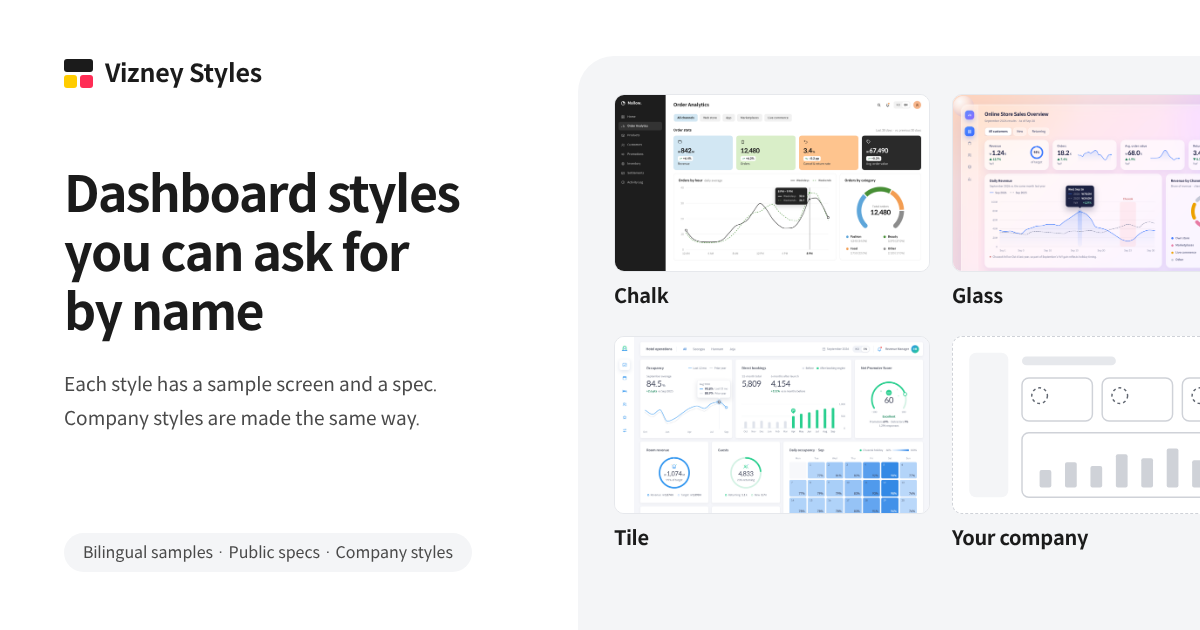
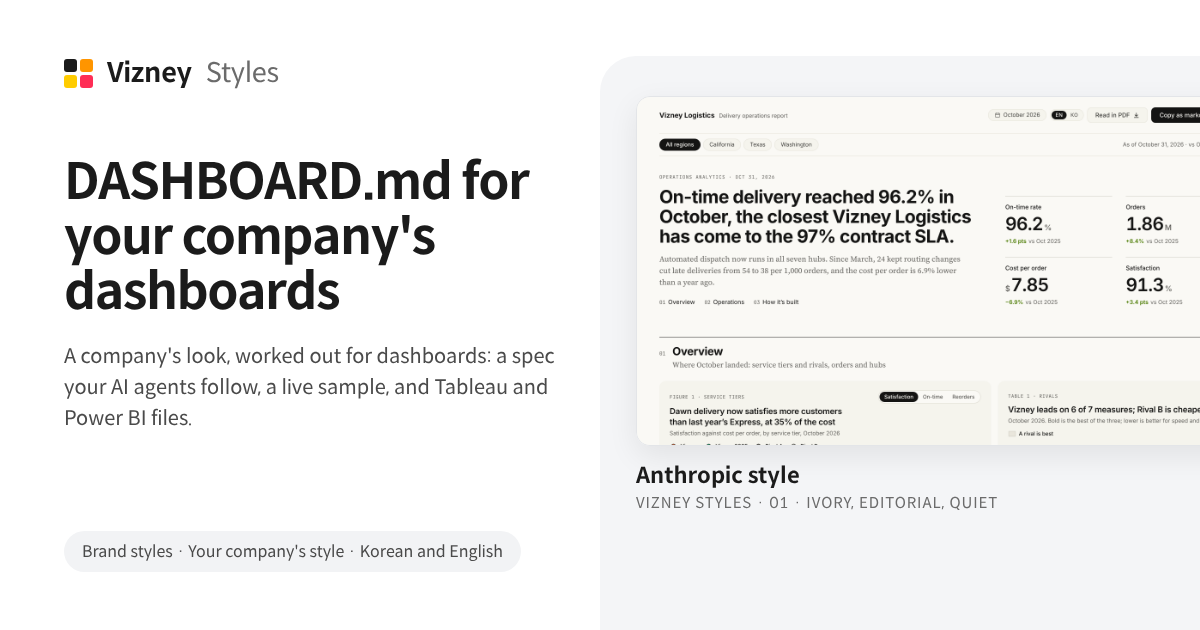
Vizney Styles as a line of Vizney: brand rules, series line, mark, npm scope
- CLAUDE.md: a "브랜드 표기" section (Vizney is the brand, Vizney Styles a line;
  series line VIZNEY STYLES · 01; the shared Vizney 2×2 mark only, no Styles
  variant or intro page; vizney.com links in header and footer; external
  listings as "Vizney Styles · <brand>" published by Vizney; npm @vizney/styles),
  and the post format (series line first, SNS caption) to match.
- Home and 404: the Vizney mark instead of the Styles variant, a Vizney link in
  the header menu and footer (kr.vizney.com in Korean). New favicon and share
  image (the old one still showed the retired Chalk, Glass and Tile).
- Sample footer and generated files (tokens.css, .tps, Power BI theme name)
  carry the series line.
- npm: the package is @vizney/styles (command vizney-styles); the publish
  workflow is ready for Trusted Publishing after the first token release.

Claude-Session: https://claude.ai/code/session_01F12JZiCZvrvYRu9Z4ZmM3A

diff --git a/index.html b/index.html
@@ -15,7 +15,7 @@
 <meta property="og:title" content="Vizney Styles · DASHBOARD.md for your company's dashboards">
 <meta property="og:description" content="Dashboard design specs that AI coding agents, Tableau and Power BI can follow. Each brand style ships as DASHBOARD.md, a live sample, validated data colors and tool files.">
 <meta property="og:url" content="https://styles.vizney.com/">
-<meta property="og:image" content="https://styles.vizney.com/og.png?v=2">
+<meta property="og:image" content="https://styles.vizney.com/og.png?v=3">
 <meta property="og:image:width" content="1200">
 <meta property="og:image:height" content="630">
 <meta name="twitter:card" content="summary_large_image">
@@ -29,7 +29,7 @@
 @font-face{font-family:'VZ Sans';font-style:normal;font-weight:700;font-display:swap;src:url(/assets/fonts/vz-sans-700.woff?v=a3e246b4f3) format('woff')}
 :root{
   /* Layout: the Vizney Blocks frame. One 1200px column with 40px gutters (16px on phones), left-aligned.
-     Sticky top bar with the Styles mark; a hero with a fact pill, two buttons and an AI hint; the catalog of brand
+     Sticky top bar with the Vizney mark; a hero with a fact pill, two buttons and an AI hint; the catalog of brand
      styles with a dashed slot for a company's own at the end; a soft rounded panel comparing two screens
      built from one fictional brand guide; text grids; a closing panel; the Blocks footer.
      Single light theme on purpose, like Blocks and the style screens. */
@@ -87,12 +87,12 @@ svg.ic{flex:none;fill:none;stroke:currentColor;stroke-width:1.6;stroke-linecap:r
 .top{position:sticky;top:env(safe-area-inset-top, 0px);z-index:40;background:var(--top-bg);-webkit-backdrop-filter:saturate(1.4) blur(10px);backdrop-filter:saturate(1.4) blur(10px);border-bottom:1px solid var(--line-2)}
 .top-in{min-height:64px;display:flex;flex-wrap:wrap;align-items:center;gap:10px 28px;padding-block:10px}
 .logo{display:inline-flex;align-items:center;gap:10px;color:var(--ink);font-size:17px;font-weight:700;letter-spacing:-.01em;text-decoration:none}
-/* The Styles mark: the Blocks 2x2 mark with its top two blocks joined into one bar. */
+/* The Vizney mark: the same 2x2 blocks as Vizney Blocks. Styles is a line of Vizney and has no mark of its own. */
 .mark{display:grid;grid-template-columns:repeat(2, 9px);grid-auto-rows:9px;gap:2px}
 .mark i{border-radius:2px;background:var(--ink)}
-.mark i:first-child{grid-column:1 / -1}
-.mark i:nth-child(2){background:var(--yellow)}
-.mark i:nth-child(3){background:var(--pink)}
+.mark i:nth-child(2){background:#ff9500}
+.mark i:nth-child(3){background:var(--yellow)}
+.mark i:nth-child(4){background:var(--pink)}
 .top-nav{display:flex;flex-wrap:wrap;gap:4px 22px;font-size:15px}
 .top-nav a{color:var(--ink-2);text-decoration:none}
 .top-nav a:hover{color:var(--ink)}
@@ -328,12 +328,13 @@ svg.ic{flex:none;fill:none;stroke:currentColor;stroke-width:1.6;stroke-linecap:r
 
 <header class="top" id="top">
   <div class="wrap top-in">
-    <a class="logo" href="#top" data-href="home"><span class="mark" aria-hidden="true"><i></i><i></i><i></i></span>Vizney Styles</a>
+    <a class="logo" href="#top" data-href="home"><span class="mark" aria-hidden="true"><i></i><i></i><i></i><i></i></span>Vizney Styles</a>
     <nav class="top-nav" aria-label="Main menu" data-i18n-aria="navAria">
       <a href="#styles" data-href="home:styles" data-i18n="navStyles">Catalog</a>
       <a href="#custom" data-href="home:custom" data-i18n="navCustom">Your company</a>
       <a href="https://github.com/yehwanhwang/vizney-styles/issues/new?template=request.yml" target="_blank" rel="noopener"><span data-i18n="navRequest">Request a brand</span><span aria-hidden="true"> ↗</span></a>
       <a href="https://www.vizney.com/contact-us/" data-href="contact" target="_blank" rel="noopener"><span data-i18n="navContact">Contact</span><span aria-hidden="true"> ↗</span></a>
+      <a href="https://www.vizney.com/" data-href="blog" target="_blank" rel="noopener">Vizney<span aria-hidden="true"> ↗</span></a>
     </nav>
     <div class="top-end">
       <div class="lang" role="group" aria-label="Language" data-i18n-aria="langAria">
@@ -506,7 +507,7 @@ svg.ic{flex:none;fill:none;stroke:currentColor;stroke-width:1.6;stroke-linecap:r
 
 <footer class="foot">
   <div class="wrap foot-in">
-    <span>Vizney Styles · © 2026 <a href="https://www.vizney.com/" target="_blank" rel="noopener">Vizney</a></span>
+    <span>Vizney Styles · © 2026 <a href="https://www.vizney.com/" data-href="blog" target="_blank" rel="noopener">Vizney</a></span>
     <span><span data-i18n="footFont">Font VZ Sans (subset of Spoqa Han Sans Neo)</span> · <a href="/OFL.txt">SIL Open Font License</a></span>
     <nav aria-label="Footer" data-i18n-aria="footAria">
       <a href="https://www.vizney.com/" data-href="blog" target="_blank" rel="noopener" data-i18n="footBlog">Blog</a>

diff --git a/404.html b/404.html
@@ -17,7 +17,7 @@
 @font-face{font-family:'VZ Sans';font-style:normal;font-weight:700;font-display:swap;src:url(/assets/fonts/vz-sans-700.woff?v=a3e246b4f3) format('woff')}
 :root{
   /* Layout: the Vizney Blocks frame. One 1200px column with 40px gutters (16px on phones), left-aligned.
-     Sticky top bar with the Styles mark; a hero with a fact pill, two buttons and an AI hint; the catalog cards
+     Sticky top bar with the Vizney mark; a hero with a fact pill, two buttons and an AI hint; the catalog cards
      with a dashed slot for a company's own at the end; a soft rounded panel comparing two screens
      built from one fictional brand guide; text grids; a closing panel; the Blocks footer.
      Single light theme on purpose, like Blocks and the style screens. */
@@ -75,12 +75,12 @@ svg.ic{flex:none;fill:none;stroke:currentColor;stroke-width:1.6;stroke-linecap:r
 .top{position:sticky;top:env(safe-area-inset-top, 0px);z-index:40;background:var(--top-bg);-webkit-backdrop-filter:saturate(1.4) blur(10px);backdrop-filter:saturate(1.4) blur(10px);border-bottom:1px solid var(--line-2)}
 .top-in{min-height:64px;display:flex;flex-wrap:wrap;align-items:center;gap:10px 28px;padding-block:10px}
 .logo{display:inline-flex;align-items:center;gap:10px;color:var(--ink);font-size:17px;font-weight:700;letter-spacing:-.01em;text-decoration:none}
-/* The Styles mark: the Blocks 2x2 mark with its top two blocks joined into one bar. */
+/* The Vizney mark: the same 2x2 blocks as Vizney Blocks. Styles is a line of Vizney and has no mark of its own. */
 .mark{display:grid;grid-template-columns:repeat(2, 9px);grid-auto-rows:9px;gap:2px}
 .mark i{border-radius:2px;background:var(--ink)}
-.mark i:first-child{grid-column:1 / -1}
-.mark i:nth-child(2){background:var(--yellow)}
-.mark i:nth-child(3){background:var(--pink)}
+.mark i:nth-child(2){background:#ff9500}
+.mark i:nth-child(3){background:var(--yellow)}
+.mark i:nth-child(4){background:var(--pink)}
 .top-nav{display:flex;flex-wrap:wrap;gap:4px 22px;font-size:15px}
 .top-nav a{color:var(--ink-2);text-decoration:none}
 .top-nav a:hover{color:var(--ink)}
@@ -316,12 +316,13 @@ svg.ic{flex:none;fill:none;stroke:currentColor;stroke-width:1.6;stroke-linecap:r
 
 <header class="top" id="top">
   <div class="wrap top-in">
-    <a class="logo" href="/" data-href="home"><span class="mark" aria-hidden="true"><i></i><i></i><i></i></span>Vizney Styles</a>
+    <a class="logo" href="/" data-href="home"><span class="mark" aria-hidden="true"><i></i><i></i><i></i><i></i></span>Vizney Styles</a>
     <nav class="top-nav" aria-label="Main menu" data-i18n-aria="navAria">
       <a href="/#styles" data-href="home:styles" data-i18n="navStyles">Catalog</a>
       <a href="/#custom" data-href="home:custom" data-i18n="navCustom">Your company</a>
       <a href="https://github.com/yehwanhwang/vizney-styles/issues/new?template=request.yml" target="_blank" rel="noopener"><span data-i18n="navRequest">Request a brand</span><span aria-hidden="true"> ↗</span></a>
       <a href="https://www.vizney.com/contact-us/" data-href="contact" target="_blank" rel="noopener"><span data-i18n="navContact">Contact</span><span aria-hidden="true"> ↗</span></a>
+      <a href="https://www.vizney.com/" data-href="blog" target="_blank" rel="noopener">Vizney<span aria-hidden="true"> ↗</span></a>
     </nav>
     <div class="top-end">
       <div class="lang" role="group" aria-label="Language" data-i18n-aria="langAria">
@@ -345,7 +346,7 @@ svg.ic{flex:none;fill:none;stroke:currentColor;stroke-width:1.6;stroke-linecap:r
 
 <footer class="foot">
   <div class="wrap foot-in">
-    <span>Vizney Styles · © 2026 Vizney</span>
+    <span>Vizney Styles · © 2026 <a href="https://www.vizney.com/" data-href="blog" target="_blank" rel="noopener">Vizney</a></span>
     <span><span data-i18n="footFont">Font VZ Sans (subset of Spoqa Han Sans Neo)</span> · <a href="/OFL.txt">SIL Open Font License</a></span>
     <nav aria-label="Footer" data-i18n-aria="footAria">
       <a href="https://www.vizney.com/" data-href="blog" target="_blank" rel="noopener" data-i18n="footBlog">Blog</a>

diff --git a/npm/bin/cli.js b/npm/bin/cli.js
@@ -1,7 +1,7 @@
 #!/usr/bin/env node
-// vizney-styles: put a Vizney Styles dashboard style in the current project.
+// @vizney/styles: put a Vizney Styles dashboard style in the current project.
 //
-//   npx vizney-styles@latest add anthropic
+//   npx @vizney/styles@latest add anthropic
 //
 // Writes DASHBOARD.md (the spec) to the project root and the dashboard-style agent skill to
 // .claude/skills/dashboard-style/ (SKILL.md with tokens.css, tokens.json, <style>.tps,
@@ -16,11 +16,11 @@ const SITE = 'https://styles.vizney.com';
 const SKILL_DIR = path.join('.claude', 'skills', 'dashboard-style');
 const VERSION = require('../package.json').version;
 
-const HELP = `vizney-styles ${VERSION} — dashboard styles that coding agents, Tableau and Power BI can follow
+const HELP = `@vizney/styles ${VERSION} — Vizney Styles: dashboard styles that coding agents, Tableau and Power BI can follow
 
 Usage
-  npx vizney-styles@latest add <style>     add a style to the project in this folder
-  npx vizney-styles@latest list            list the styles in the catalog
+  npx @vizney/styles@latest add <style>     add a style to the project in this folder
+  npx @vizney/styles@latest list            list the styles in the catalog
 
 Options
   --dir <path>   the project folder (default: the current folder)
@@ -57,17 +57,17 @@ async function list() {
   for (const s of cat.styles) {
     process.stdout.write(`${String(s.number).padStart(2, '0')}  ${s.slug.padEnd(16)} ${s.name} — ${s.words}\n    ${s.sample}\n`);
   }
-  process.stdout.write(`\nAdd one: npx vizney-styles@latest add <style>\n`);
+  process.stdout.write(`\nAdd one: npx @vizney/styles@latest add <style>\n`);
 }
 
 async function add(style, dir, force) {
-  if (!style) fail('Which style? For example: npx vizney-styles@latest add anthropic\nSee them all: npx vizney-styles@latest list');
+  if (!style) fail('Which style? For example: npx @vizney/styles@latest add anthropic\nSee them all: npx @vizney/styles@latest list');
   if (!/^[a-z0-9-]+$/.test(style)) fail(`Unknown style: ${style}`);
   const root = path.resolve(dir);
   if (!fs.existsSync(root) || !fs.statSync(root).isDirectory()) fail(`Not a folder: ${root}`);
   const spec = path.join(root, 'DASHBOARD.md'), skill = path.join(root, SKILL_DIR);
   if (!force && (fs.existsSync(spec) || fs.existsSync(path.join(skill, 'SKILL.md')))) {
-    fail(`DASHBOARD.md or ${SKILL_DIR} already exists in ${root}.\nRun again with --force to replace them: npx vizney-styles@latest add ${style} --force`);
+    fail(`DASHBOARD.md or ${SKILL_DIR} already exists in ${root}.\nRun again with --force to replace them: npx @vizney/styles@latest add ${style} --force`);
   }
   // Download everything first, so a failed download leaves the project untouched
   const files = [['DASHBOARD.md', spec], ['skill/SKILL.md', path.join(skill, 'SKILL.md')]]
@@ -75,7 +75,7 @@ async function add(style, dir, force) {
   const got = [];
   for (const [src, dest] of files) {
     const body = await get(`${BASE}/${style}/${src}`);
-    if (!body) fail(`No style called "${style}". See the catalog: npx vizney-styles@latest list`);
+    if (!body) fail(`No style called "${style}". See the catalog: npx @vizney/styles@latest list`);
     got.push([dest, body]);
   }
   fs.mkdirSync(skill, { recursive: true });

diff --git a/anthropic/index.html b/anthropic/index.html
@@ -11,7 +11,7 @@
 <link rel="stylesheet" href="https://fonts.googleapis.com/css2?family=Inter:wght@400;500;600;700&family=JetBrains+Mono:wght@400;500&family=Noto+Sans+KR:wght@400;500;600;700&family=Noto+Serif+KR:wght@400&family=Source+Serif+4:ital,opsz,wght@0,8..60,400;1,8..60,400&display=swap">
 <script src="/lib/embed.js" defer></script>
 <style>
-  /* Anthropic style (Vizney Styles 01) — Ivory, Editorial, Quiet · 아이보리, 에디토리얼, 고요함
+  /* Anthropic style (VIZNEY STYLES · 01) — Ivory, Editorial, Quiet · 아이보리, 에디토리얼, 고요함
      anthropic.com · claude.com의 공개 디자인에서 읽어 낸 참고용 스타일. 공식 디자인이 아니며 로고·서체·데이터는 쓰지 않는다.
      가상 배송 회사(Vizney Logistics · 비즈니 로지스틱스, 미국)의 월간 운영 보고. 앤트로픽이 발행하는 그림들(모델 발표의 비용·성능 그림과 비교표,
      리서치 글의 계단선·오차 막대·덤벨·점 단위 설문)을 참고하되, 모든 그림을 하나의 카드와 하나의 차트 문법으로 그린다.
@@ -278,6 +278,7 @@
   .foot .cat{font-weight:500;color:var(--on-dark)}
   .foot .cat a{color:inherit;text-decoration-color:#4d4c48;text-underline-offset:3px}
   .foot .cat a:hover{text-decoration-color:var(--on-dark)}
+  .foot .cat .ser{font-family:var(--mono);font-size:11.5px;letter-spacing:.08em;margin-right:10px}
   .foot .cat .w{font-weight:400;color:var(--on-dark-2)}
   .toast{position:fixed;left:50%;bottom:24px;z-index:9;transform:translate(-50%,8px);padding:9px 14px;border-radius:8px;background:var(--ink);color:var(--on-dark);font-size:13px;box-shadow:0 4px 16px rgba(20,20,19,.16);opacity:0;pointer-events:none;transition:opacity .2s ease,transform .2s var(--ease)}
   .toast.on{opacity:1;transform:translate(-50%,0)}
@@ -566,7 +567,7 @@
   <div class="toast" id="toast" role="status"></div>
 </div>
 <footer class="foot"><div class="foot-in">
-  <p class="cat"><a href="https://styles.vizney.com/">Vizney Styles</a> · 01 · <a href="https://styles.vizney.com/anthropic/DASHBOARD.html" data-i18n="catName"></a> <span class="w" data-i18n="words"></span></p>
+  <p class="cat"><a class="ser" href="https://styles.vizney.com/">VIZNEY STYLES · 01</a> <a href="https://styles.vizney.com/anthropic/DASHBOARD.html" data-i18n="catName"></a> <span class="w" data-i18n="words"></span></p>
   <p data-i18n="note"></p>
   <p data-i18n="notice"></p>
 </div></footer>

diff --git a/anthropic/tokens.css b/anthropic/tokens.css
@@ -1,4 +1,4 @@
-/* Anthropic style — Ivory, Editorial, Quiet · Vizney Styles 01
+/* Anthropic style — Ivory, Editorial, Quiet · VIZNEY STYLES · 01
    Generated from tokens.json by tools/package.py; edit the JSON, not this file. */
 :root{
   --canvas:#faf9f5; /* page background (site gray-050) */

diff --git a/tools/package.py b/tools/package.py
@@ -27,7 +27,7 @@ ROOT = Path(__file__).resolve().parent.parent
 
 
 def css_tokens(t):
-    lines = [f"/* {t['name']} — {t['words']['en']} · Vizney Styles {t['number']:02d}",
+    lines = [f"/* {t['name']} — {t['words']['en']} · VIZNEY STYLES · {t['number']:02d}",
              f"   Generated from tokens.json by tools/package.py; edit the JSON, not this file. */",
              ":root{"]
     for k, v in t['colors'].items():
@@ -82,7 +82,7 @@ def tableau_tps(t):
         palette("Diverging", "ordered-diverging", d['diverging']),
     ])
     return ("<?xml version='1.0'?>\n"
-            f"<!-- {name} · Vizney Styles {t['number']:02d}. Paste the color-palette elements into My Tableau Repository/Preferences.tps\n"
+            f"<!-- {name} · VIZNEY STYLES · {t['number']:02d}. Paste the color-palette elements into My Tableau Repository/Preferences.tps\n"
             "     (inside <preferences>) and restart Tableau Desktop. Generated by tools/package.py from tokens.json. -->\n"
             "<workbook>\n  <preferences>\n" + body + "\n  </preferences>\n</workbook>\n")
 
@@ -100,7 +100,7 @@ def powerbi_theme(t):
     n_cat = len(d['categorical'])
     text = lambda size, color, family=font: {"fontFace": family, "fontSize": size, "color": color}
     return {
-        "name": f"{t['name']} (Vizney Styles {t['number']:02d})",
+        "name": f"{t['name']} · VIZNEY STYLES · {t['number']:02d}",
         "dataColors": data_colors,
         "background": c['canvas'],
         "foreground": c['ink'],

diff --git a/README.md b/README.md
@@ -4,7 +4,7 @@ Dashboard design specs that AI coding agents, Tableau and Power BI can follow. E
 
 Served at **https://styles.vizney.com** (GitHub Pages, `main` branch). Everything pushed to `main` is published immediately, so keep work in progress off `main`. Every page opens in English; add `?lang=ko` for Korean.
 
-Made by [Vizney](https://www.vizney.com), a BI consulting studio in Seoul.
+Vizney Styles is a line of [Vizney](https://www.vizney.com), a BI consulting studio in Seoul; the brand is Vizney, and each style carries the series line `VIZNEY STYLES · 01`. Install a style with `curl -fsSL https://styles.vizney.com/install.sh | sh -s -- <style>` or, once published, `npx @vizney/styles@latest add <style>`.
 
 
 ## Catalog
@@ -73,14 +73,14 @@ The file follows the `DESIGN.md` convention (front matter tokens, then prose sec
 
 ### npm CLI
 
-`npm/` holds the `vizney-styles` command, which places the same files as `install.sh`:
+`npm/` holds the `@vizney/styles` package (command `vizney-styles`), which places the same files as `install.sh`:
 
 ```bash
-npx vizney-styles@latest add anthropic     # --force to replace, --dir <path> for another folder
-npx vizney-styles@latest list              # the styles in catalog.json
+npx @vizney/styles@latest add anthropic     # --force to replace, --dir <path> for another folder
+npx @vizney/styles@latest list              # the styles in catalog.json
 ```
 
-It reads the files from this repository's `main` branch, so a new or changed style needs no new npm release; `tools/package.py` keeps `catalog.json` up to date. Release the CLI itself by raising `version` in `npm/package.json` and running the **Publish npm package** workflow (Actions → Run workflow, or push a tag `npm-v<version>`). The workflow needs the repository secret `NPM_TOKEN`, an npm granular access token that can publish `vizney-styles`; it tests the CLI against the live catalog, skips a version that is already published and publishes with provenance.
+It reads the files from this repository's `main` branch, so a new or changed style needs no new npm release; `tools/package.py` keeps `catalog.json` up to date. Release the CLI itself by raising `version` in `npm/package.json` and running the **Publish npm package** workflow (Actions → Run workflow, or push a tag `npm-v<version>`). The `@vizney` scope is an npm organization. The first release needs the repository secret `NPM_TOKEN` (a granular access token that can publish to the `@vizney` scope); after it, set up Trusted Publishing for `@vizney/styles` on npmjs.com (GitHub Actions, repository `yehwanhwang/vizney-styles`, workflow `npm-publish.yml`) and delete the token. The workflow it tests the CLI against the live catalog, skips a version that is already published and publishes with provenance.
 
 
 ## Adding a style

diff --git a/npm/README.md b/npm/README.md
@@ -1,9 +1,11 @@
-# vizney-styles
+# @vizney/styles
 
-Add a [Vizney Styles](https://styles.vizney.com) dashboard style to your project: a `DASHBOARD.md` spec that coding agents, Tableau and Power BI can follow, and the `dashboard-style` agent skill that builds, restyles and reviews dashboards to it.
+Add a [Vizney Styles](https://styles.vizney.com) dashboard style to your project. Vizney Styles is a line of [Vizney](https://www.vizney.com).
+
+Each style is a `DASHBOARD.md` spec that coding agents, Tableau and Power BI can follow, and the `dashboard-style` agent skill that builds, restyles and reviews dashboards to it.
 
 ```bash
-npx vizney-styles@latest add anthropic
+npx @vizney/styles@latest add anthropic
 ```
 
 Run it in your project folder. It writes:
@@ -21,9 +23,9 @@ DASHBOARD.md                              the spec: tokens, rules, checks
 Nothing else is touched. Then ask your agent for a dashboard; agents that read skills load `dashboard-style` by themselves, and any agent can be told to follow `DASHBOARD.md`.
 
 ```bash
-npx vizney-styles@latest list                     # the styles in the catalog
-npx vizney-styles@latest add anthropic --force    # replace an earlier install
-npx vizney-styles@latest add anthropic --dir app  # another folder
+npx @vizney/styles@latest list                     # the styles in the catalog
+npx @vizney/styles@latest add anthropic --force    # replace an earlier install
+npx @vizney/styles@latest add anthropic --dir app  # another folder
 ```
 
 The same files come from `curl -fsSL https://styles.vizney.com/install.sh | sh -s -- anthropic` or as a zip on each style's page. Needs Node 18 or later.

diff --git a/anthropic/DASHBOARD.md b/anthropic/DASHBOARD.md
@@ -67,7 +67,7 @@ That puts `DASHBOARD.md` in the project root and the `dashboard-style` agent ski
 - Raw file for your project: https://raw.githubusercontent.com/yehwanhwang/vizney-styles/main/anthropic/DASHBOARD.md
 - Package: [anthropic-dashboard-style.zip](anthropic-dashboard-style.zip) (unzip in your project root) · the skill: [skill/SKILL.md](skill/SKILL.md)
 - Files in this folder: [tokens.json](tokens.json) (the source of every value here), [tokens.css](tokens.css), [anthropic.tps](anthropic.tps) (Tableau), [powerbi-theme.json](powerbi-theme.json), [prompt.md](prompt.md), [orders.csv](orders.csv) (the data behind the sample's Figure 2)
-- Catalog: https://styles.vizney.com · Vizney Styles 01
+- Catalog: VIZNEY STYLES · 01 · https://styles.vizney.com (Vizney Styles is a line of [Vizney](https://www.vizney.com))
 
 Not an official Anthropic design, and not affiliated with or endorsed by Anthropic. A reference style read from the publicly visible design of anthropic.com and claude.com; it carries no logo, typeface or data of theirs. The sample's company, Vizney Logistics, and all its numbers are fictional. Trademarks belong to their owners.
 

diff --git a/anthropic/skill/SKILL.md b/anthropic/skill/SKILL.md
@@ -61,4 +61,4 @@ Run the checklist at the end of `DASHBOARD.md` ("Agent Prompt Guide"). At the le
 
 When the work is in Tableau or Power BI, give the user the settings rather than code: the palette or theme file from this folder, then the per-sheet or per-visual settings from Tool Mapping in `DASHBOARD.md` and the notes in `prompt.md`. Say which steps the user does by hand (installing palettes or themes, fonts on viewing machines).
 
-Style source: https://styles.vizney.com/anthropic/ · Vizney Styles. Not an official Anthropic design and not affiliated with or endorsed by Anthropic; a reference style read from the public websites www.anthropic.com, claude.com, with no logo, typeface or data of theirs. Trademarks belong to their owners.
+Style source: https://styles.vizney.com/anthropic/ · Vizney Styles, a line of Vizney (https://www.vizney.com). Not an official Anthropic design and not affiliated with or endorsed by Anthropic; a reference style read from the public websites www.anthropic.com, claude.com, with no logo, typeface or data of theirs. Trademarks belong to their owners.

diff --git a/tools/skill.md b/tools/skill.md
@@ -61,4 +61,4 @@ Run the checklist at the end of `DASHBOARD.md` ("Agent Prompt Guide"). At the le
 
 When the work is in Tableau or Power BI, give the user the settings rather than code: the palette or theme file from this folder, then the per-sheet or per-visual settings from Tool Mapping in `DASHBOARD.md` and the notes in `prompt.md`. Say which steps the user does by hand (installing palettes or themes, fonts on viewing machines).
 
-Style source: https://styles.vizney.com/__SLUG__/ · Vizney Styles. __DISCLAIMER__
+Style source: https://styles.vizney.com/__SLUG__/ · Vizney Styles, a line of Vizney (https://www.vizney.com). __DISCLAIMER__
